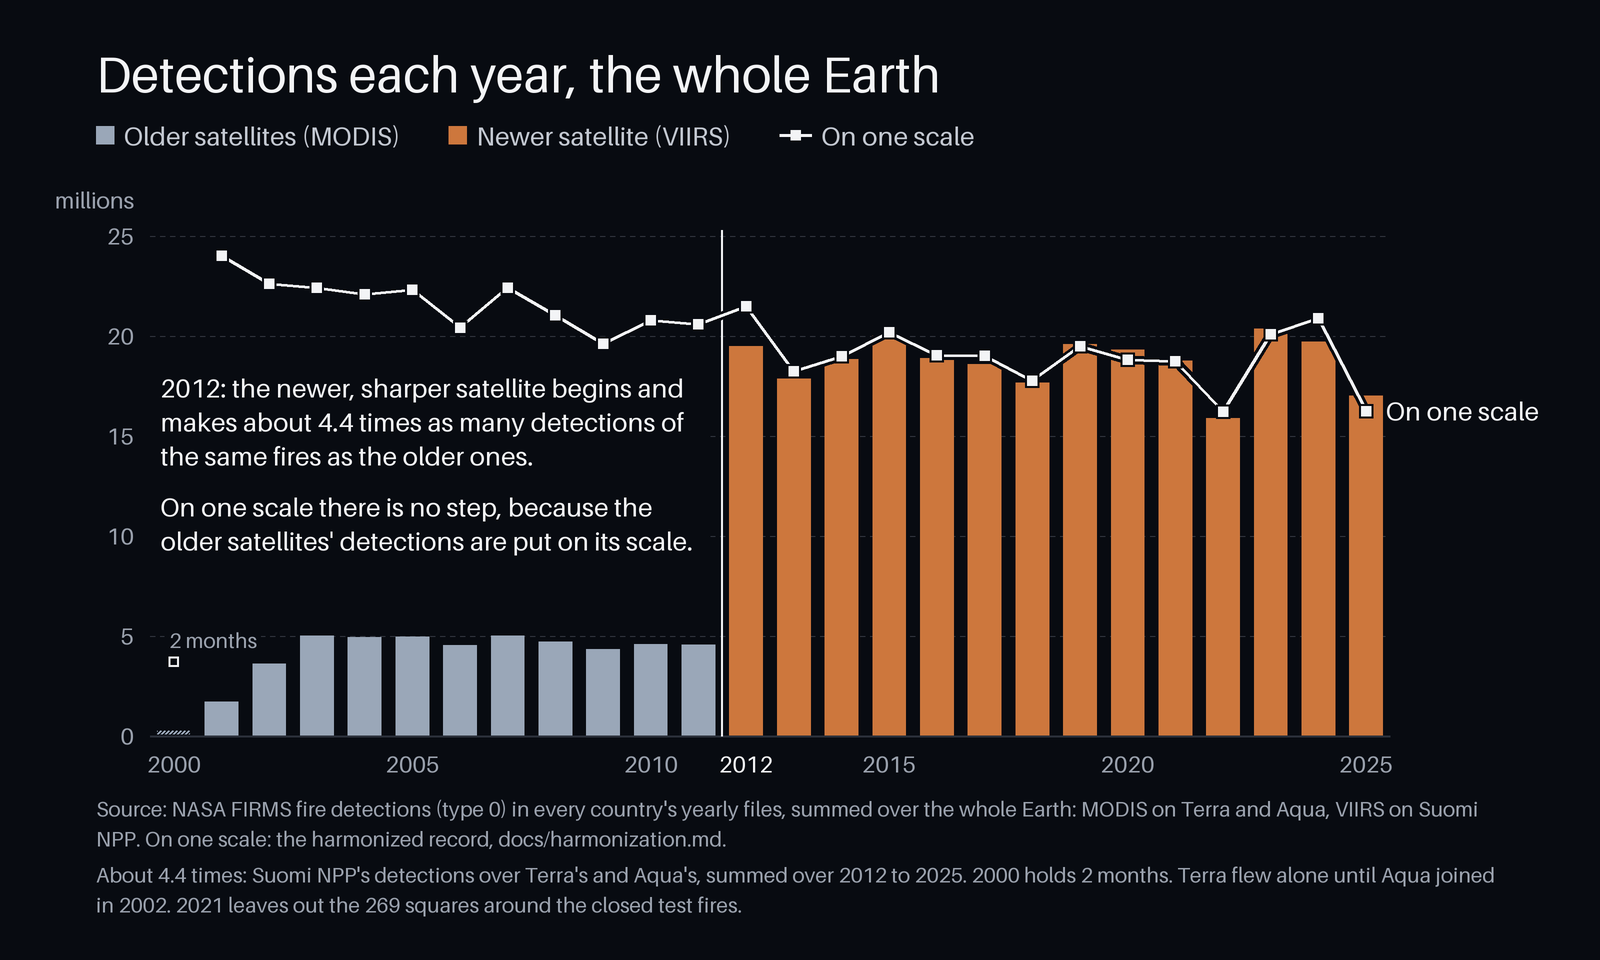
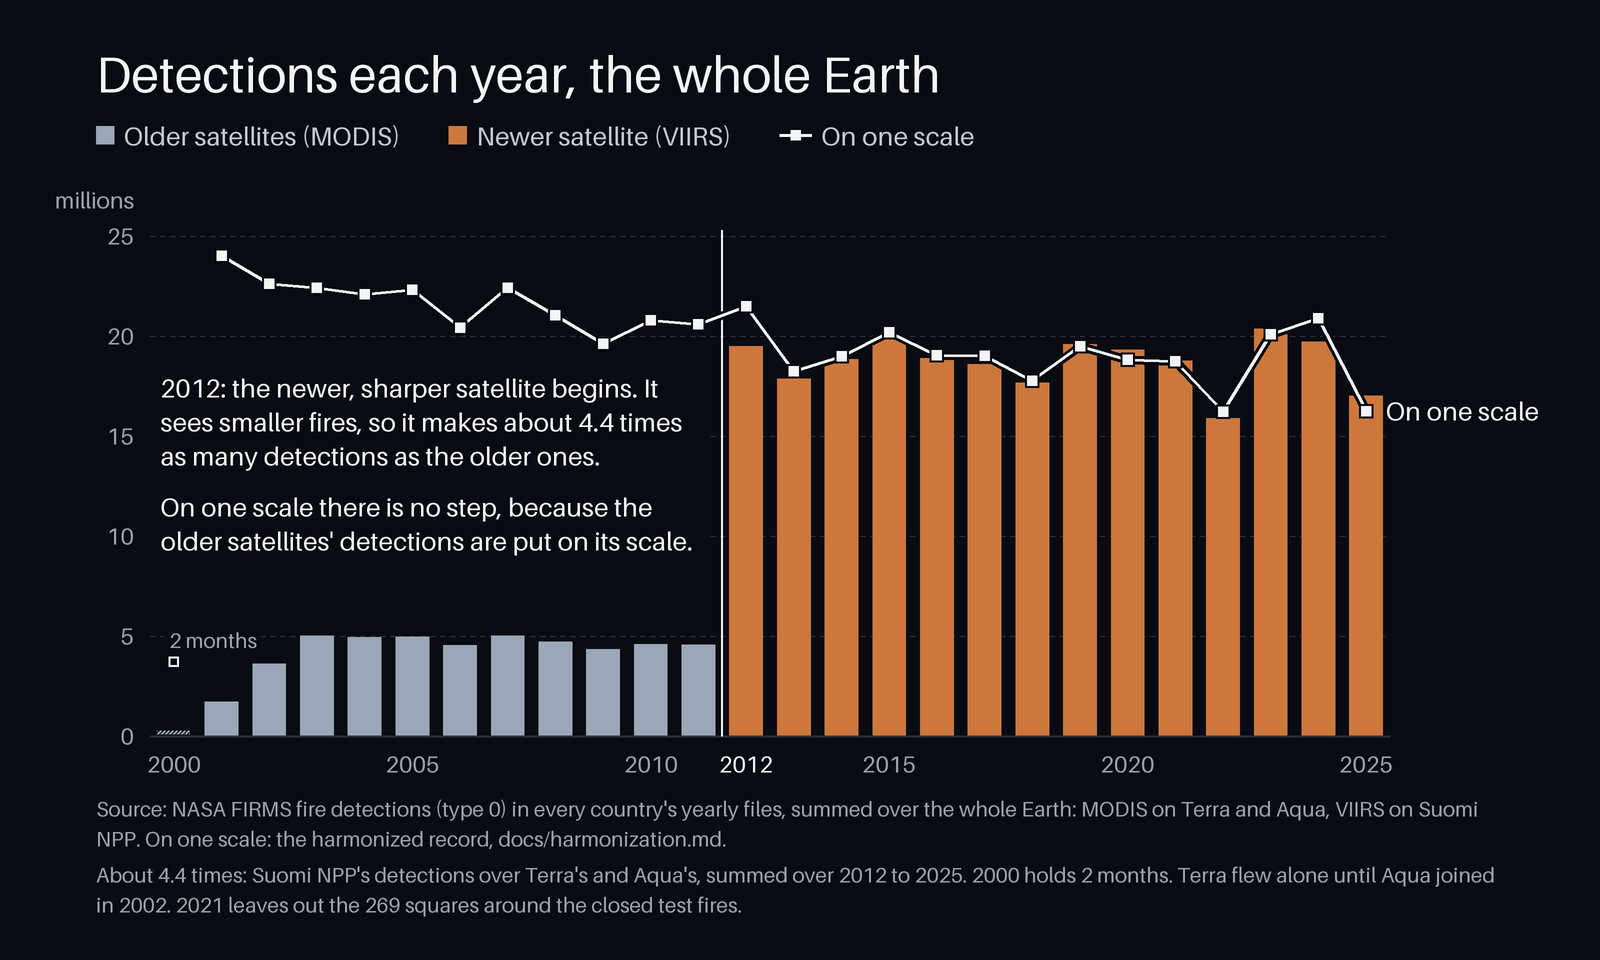
Say on the figure and in the harmonization document that the newer satellite sees smaller fires and so makes about 4.4 times as many detections, not the same fires counted 4.4 times.

Changed region(s): [[0.0938, 0.375, 0.4375, 0.5]]

diff --git a/backend/model/harmonize_figure.py b/backend/model/harmonize_figure.py
@@ -212,8 +212,8 @@ def draw(s: dict[str, Any], out: Path, totals_sha256: str | None = None) -> dict
     xs = X(x0 + band * i_step)
     d.line([xs, ypx(0), xs, ypx(vmax) - X(6)], fill=INK, width=2 * k)
     words = [
-        f"{s['sharp_from']}: the newer, sharper satellite begins and makes about {s['factor']:.1f} times as many "
-        "detections of the same fires as the older ones.",
+        f"{s['sharp_from']}: the newer, sharper satellite begins. It sees smaller fires, so it makes about "
+        f"{s['factor']:.1f} times as many detections as the older ones.",
         "On one scale there is no step, because the older satellites' detections are put on its scale.",
     ]
     block_w = 540 * k

diff --git a/docs/harmonization.md b/docs/harmonization.md
@@ -241,7 +241,8 @@ fire region's context box are left out of every layer and total.
 Suomi NPP's rows begin on 20 January 2012, so its total for 2012 holds 591,488 rows in January against 1.6 million
 in January 2013. Over the world its rows are 4.04 times MODIS's in 2012 as summed, 4.25 times from February, and
 from 4.24 (2024) to 4.86 (2025) in the whole years after; summed over 2012 to 2025 it is 4.41 (261,995,596 over
-59,386,593), and 4.43 from February 2012.
+59,386,593), and 4.43 from February 2012. That is not one fire counted 4.4 times: with its smaller squares Suomi NPP
+sees small and cool fires that MODIS never detects, and more squares of the large ones.
 
 Each total's held-out error is measured as the cells' was: every overlap year left out in turn over every cell at
 once, the method fitted on the other years, the year's total predicted over its clean months and compared with
